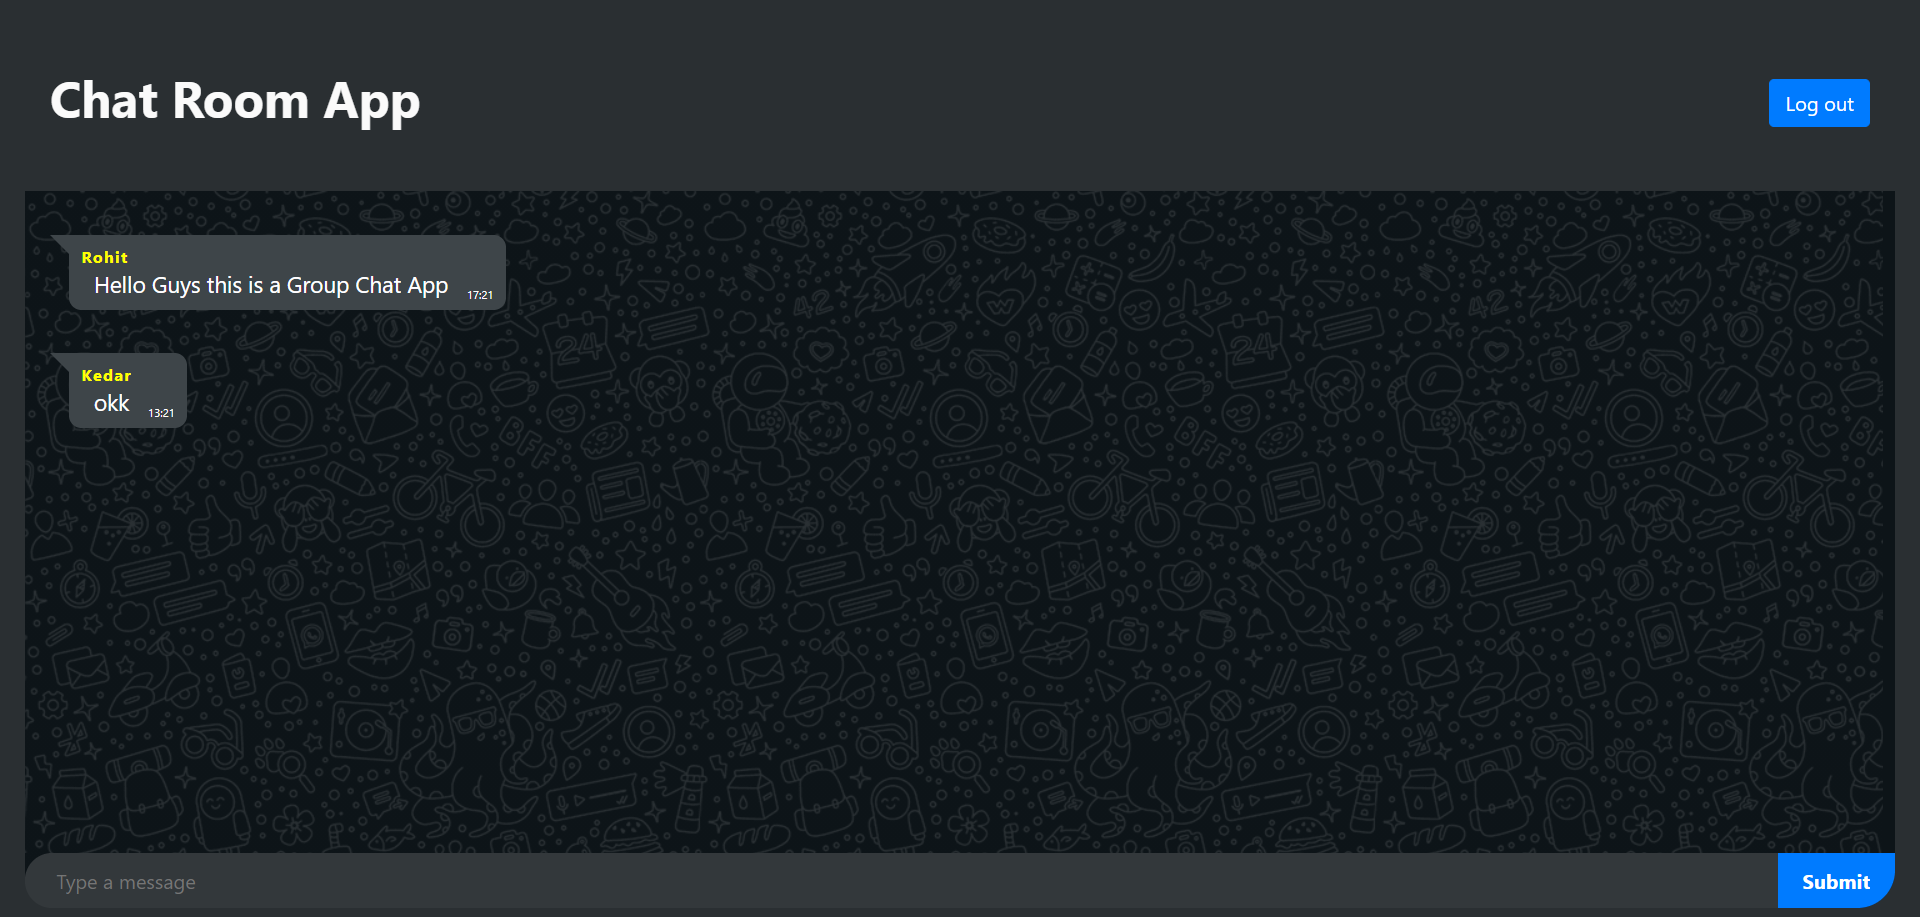
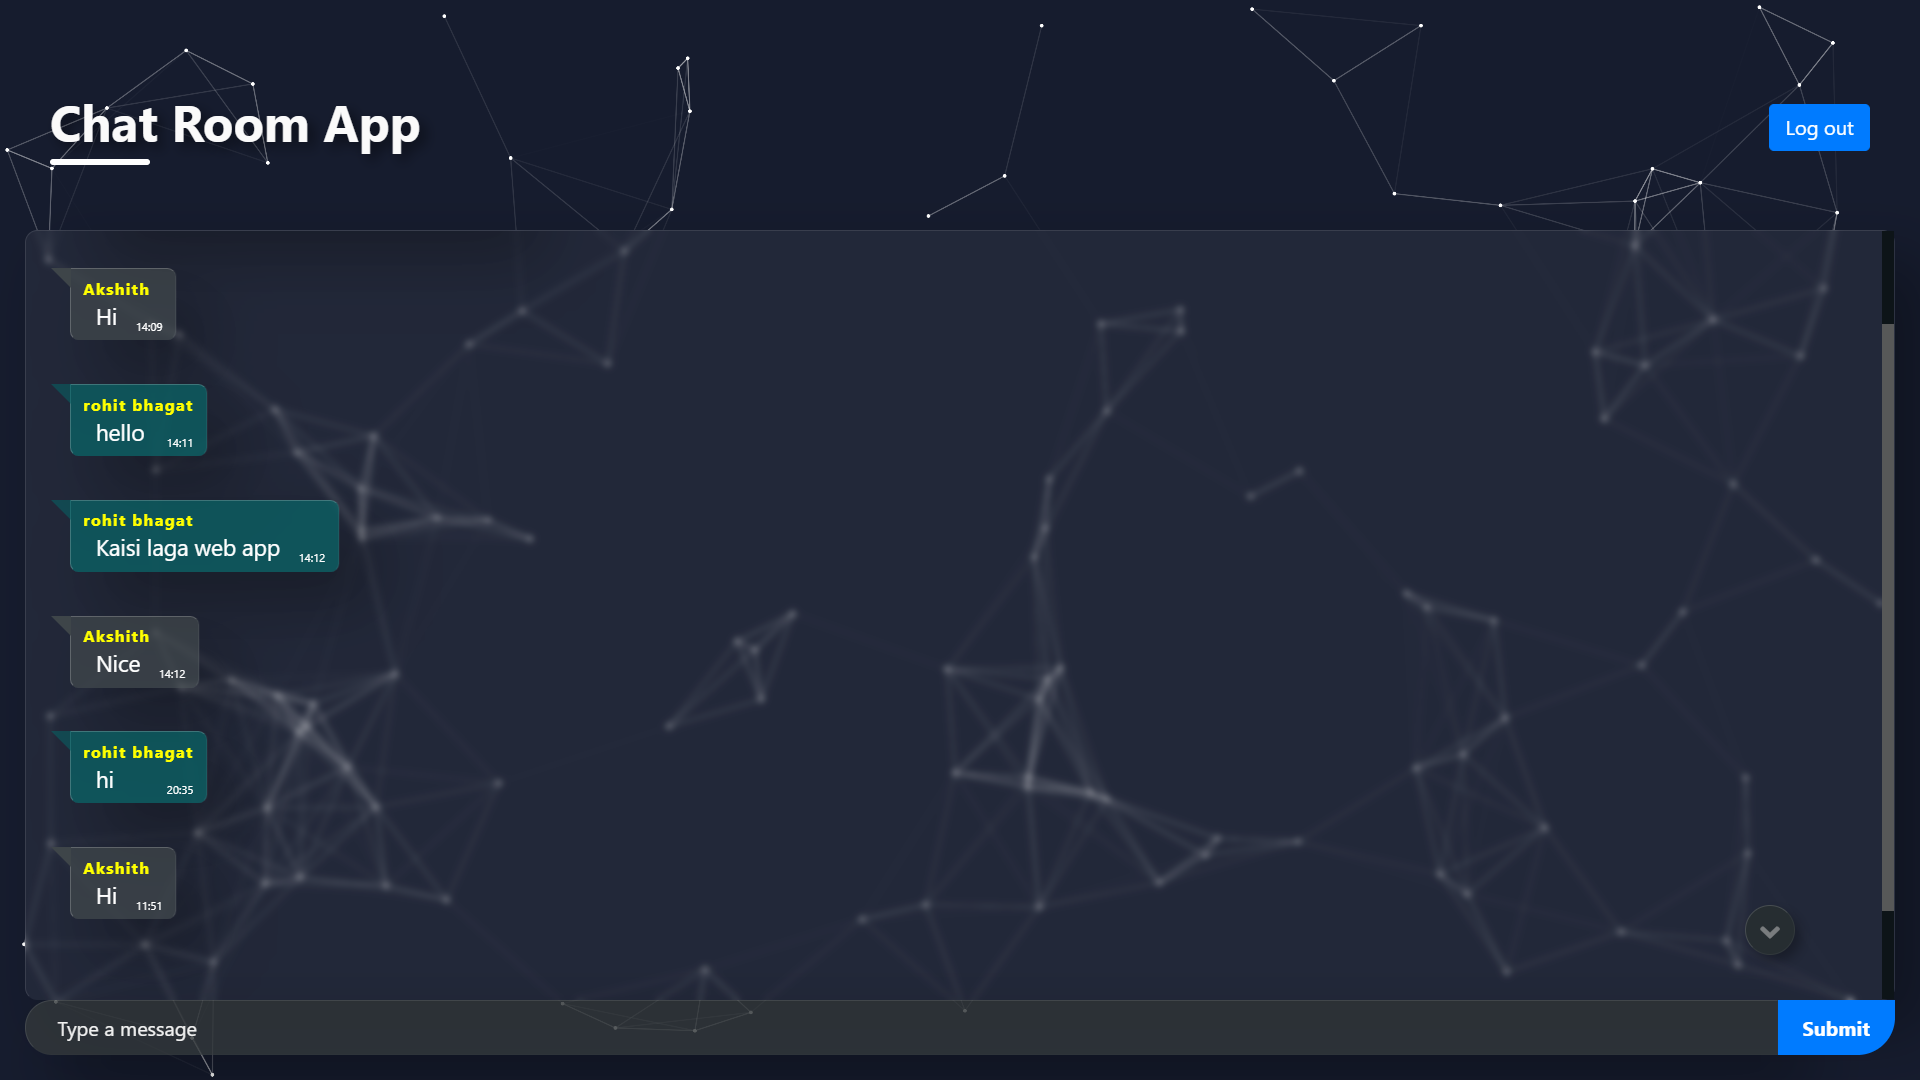
Updated Look

diff --git a/src/App.css b/src/App.css
@@ -42,17 +42,27 @@
   font-weight: 750;
   position: relative;
   color: #fafafa;
+  text-shadow: 5px 5px 10px rgb(0, 0, 0, 0.5);
+}
+.App__header h1:after {
+  content: "";
+  width: 80px;
+  height: 5px;
+  background-color: #fff;
+  position: absolute;
+  bottom: -10px;
+  left: 0;
+  border-radius: 10px;
 }
 .App__input {
   display: flex;
   flex-direction: row;
   flex: 0.05;
   width: 100%;
-  background: linear-gradient(0, #0d1418de, #0d1418de), url(bg-chat.png);
-  background-color: #0d1418;
   position: relative;
   border-bottom-left-radius: 30px;
   border-bottom-right-radius: 30px;
+  z-index: 4;
 }
 .App__input form {
   width: 100%;
@@ -66,8 +76,16 @@
   padding: 0 25px;
   border-top-left-radius: 30px;
   border-bottom-left-radius: 30px;
-  background-color: #33383b;
+  background-color: #33383bc7;
   color: #fff;
+  box-shadow: 25px 25px 50px rgb(0, 0, 0, 0.3);
+  border: 1px solid rgba(255, 255, 255, 0.1);
+  border-right: 1px solid rgba(255, 255, 255, 0.01);
+  border-bottom: 1px solid rgba(255, 255, 255, 0.01);
+}
+.App__input form input::placeholder {
+  color: #f1f1f1;
+  font-weight: 400;
 }
 .App__input form button {
   outline: none;
@@ -83,29 +101,39 @@
 .App__input form button:active {
   background-color: #001aff;
 }
-
 .App__display {
-  flex: 0.75 1;
-  background: linear-gradient(0, #0d1418de, #0d1418de), url(bg-chat.png);
-  background-color: #0d1418;
-  background-repeat: repeat;
-  background-size: auto;
-  background-attachment: local;
+  flex: 0.75;
+  height: 100%;
+  background-color: rgb(255, 255, 255, 0.05);
+  backdrop-filter: blur(3px);
+  box-shadow: 25px 25px 50px rgb(0, 0, 0, 0.3);
+  border: 1px solid rgba(255, 255, 255, 0.1);
+  border-right: 1px solid rgba(255, 255, 255, 0.05);
+  border-bottom: 1px solid rgba(255, 255, 255, 0);
   position: relative;
   overflow-y: scroll;
+  scroll-behavior: smooth;
+  border-radius: 10px;
+  z-index: 2;
 }
 .App__message,
 .App__sendmessage {
   position: relative;
-  background-color: #3e4549;
-  padding: 7px 10px;
+  padding: 5px 10px;
   width: fit-content;
   margin: 35px;
-  border-radius: 10px;
-  border-top-left-radius: 0;
+  background-color: #3e4549a9;
   color: #fff;
   display: flex;
   flex-direction: column;
+  backdrop-filter: blur(3px);
+  box-shadow: 25px 25px 50px rgb(0, 0, 0, 0.3);
+  border: 1px solid rgba(255, 255, 255, 0.2);
+  border-right: 1px solid rgba(255, 255, 255, 0.05);
+  border-bottom: 1px solid rgba(255, 255, 255, 0);
+  border-radius: 7px;
+  border-top-left-radius: 0;
+  z-index: 4;
 }
 .App__message:before,
 .App__sendmessage:before {
@@ -113,18 +141,19 @@
   position: absolute;
   width: 15px;
   height: 15px;
-  left: -15px;
-  top: 0;
+  left: -16px;
+  top: -1px;
   border-width: 8px;
   border-style: solid;
   border-color: #3e4549 #3e4549 transparent transparent;
+  z-index: 5;
 }
 
 .App__sendmessage {
-  background-color: #056162;
+  background-color: #056062bd;
 }
 .App__sendmessage:before {
-  border-color: #056162 #056162 transparent transparent;
+  border-color: #05606291 #05606291 transparent transparent;
 }
 
 .App__display__user {
@@ -149,8 +178,24 @@
 }
 Button {
   float: right;
+  z-index: 4;
 }
-@media screen and (max-width: 820px) {
+.App__downarrow {
+  position: fixed;
+  bottom: 100px;
+  right: 100px;
+  width: 40px;
+  height: 40px;
+  background-color: #262d31;
+  border-radius: 50%;
+  display: flex;
+  justify-content: center;
+  align-items: center;
+  z-index: 5;
+  box-shadow: 5px 5px 10px rgb(0, 0, 0, 0.3);
+  border: 1px solid rgba(255, 255, 255, 0.15);
+  border-right: 1px solid rgba(255, 255, 255, 0.05);
+  border-bottom: 1px solid rgba(255, 255, 255, 0.05);
 }
 @media screen and (max-width: 450px) {
   .App__Start__sign {
@@ -175,6 +220,11 @@ Button {
     position: relative;
     text-align: center;
   }
+  .App__header h1:after {
+    content: "";
+    width: 0px;
+    height: 0px;
+  }
   .App__header Button {
     font-size: 15px;
     padding: 4px 10px;
@@ -192,5 +242,9 @@ Button {
   .App__message,
   .App__sendmessage {
     margin: 15px 25px;
+  }
+  .App__downarrow {
+    bottom: 90px;
+    right: 50px;
   }
 }

diff --git a/src/App.js b/src/App.js
@@ -5,6 +5,7 @@ import Form from "react-bootstrap/Form";
 import Button from "react-bootstrap/Button";
 // import ListGroup from "react-bootstrap/ListGroup";
 import { FontAwesomeIcon } from "@fortawesome/react-fontawesome";
+import { faAngleDown } from "@fortawesome/free-solid-svg-icons";
 import { faTrash } from "@fortawesome/free-solid-svg-icons";
 import firebase from "firebase";
 import { db, auth, provider } from "./firebase";
@@ -12,6 +13,7 @@ import { useEffect, useState, useRef } from "react";
 import Modal from "react-bootstrap/Modal";
 import { actionTypes } from "./reducer";
 import useStateValue from "./StateProvider";
+import Particles from "react-particles-js";
 
 function App() {
   const [messages, setMessages] = useState([""]);
@@ -56,6 +58,10 @@ function App() {
       });
   }, []);
 
+  useEffect(() => {
+    scrollTheDisp();
+  }, [messages]);
+
   //add new todo to database
   const addMessages = (event) => {
     event.preventDefault();
@@ -68,8 +74,6 @@ function App() {
         timestamp: firebase.firestore.FieldValue.serverTimestamp(),
       })
       .catch((err) => alert(err.message));
-
-    scrollTheDisp();
 
     setInput("");
   };
@@ -142,11 +146,60 @@ function App() {
   let Disp = React.createRef();
 
   function scrollTheDisp() {
-    Disp.current.scrollIntoView();
+    if (Disp.current != null) Disp.current.scrollIntoView();
   }
 
   return (
     <div className="App">
+      <Particles
+        style={{
+          position: "fixed",
+          top: 0,
+          left: 0,
+          width: "100vw",
+          height: "100vh",
+          zIndex: "1",
+        }}
+        params={{
+          particles: {
+            number: {
+              value: 80,
+              density: {
+                enable: true,
+                value_area: 800,
+              },
+            },
+            color: {
+              value: "#fff",
+            },
+            shape: {
+              type: "circle",
+              stroke: {
+                width: 1,
+                color: "#fff",
+              },
+              polygon: {
+                nb_sides: 6,
+              },
+              image: {
+                src: "",
+                width: 100,
+                height: 100,
+              },
+            },
+            opacity: {
+              value: 1,
+              random: false,
+              anim: {
+                enable: false,
+                speed: 3,
+                opacity_min: 0,
+                sync: false,
+              },
+            },
+          },
+        }}
+      />
       <Modal centered show={showSignUp} onHide={handleSignUpClose}>
         <Modal.Header closeButton>
           <Modal.Title>Sign Up</Modal.Title>
@@ -255,6 +308,13 @@ function App() {
                       {message.time ? message.time : null}
                     </span>
                   </span>
+                  {/* <Button
+                    onClick={(event) =>
+                      db.collection("users").doc(message.id).delete()
+                    }
+                  >
+                    <FontAwesomeIcon icon={faTrash} />
+                  </Button> */}
                 </div>
               );
             })}
@@ -279,6 +339,18 @@ function App() {
                 Submit
               </button>
             </form>
+          </div>
+          <div onClick={() => scrollTheDisp()} className="App__downarrow">
+            <FontAwesomeIcon
+              style={{
+                width: "25px",
+                height: "25px",
+                position: "relative",
+                top: "2px",
+                color: "#797c7e",
+              }}
+              icon={faAngleDown}
+            />
           </div>
         </div>
       ) : (
